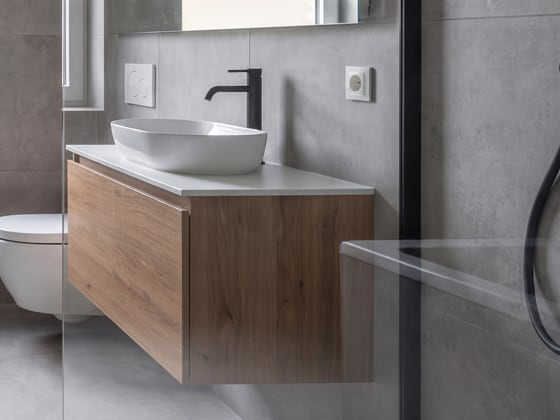
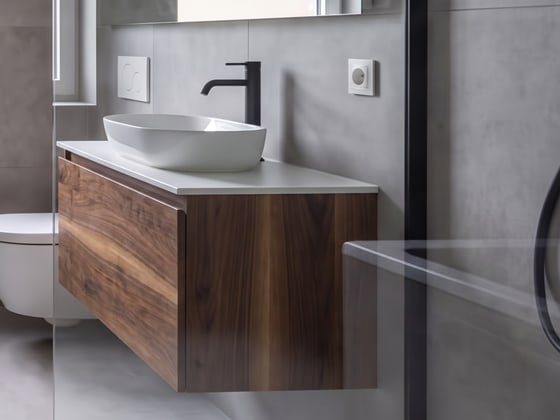
Badkamerpagina: dode navigatielink, het toilet, walnoot en "staat er niet tussen"
De navigatieknop "Diensten" wees naar een sectie die op deze pagina niet bestaat:
je klikte en er gebeurde niets. Op die plek staat hier de schetser, dus heet de
link nu "Ontwerp uw badkamer" en springt hij daarheen. De standaardlijst voor
landingspaginas heeft die dode link niet meer.

Het toilet ontbrak in "Soort werk", terwijl het mee vernieuwen van het toilet in
twee van de eigen reviews op deze pagina staat. Toegevoegd.

Walnoot was niet van eiken te onderscheiden: de eerste generatie veranderde het
front nauwelijks, de tweede maakte het donker maar vlak. Nu draagt het de nerf
waar walnoot aan te herkennen is, met donkere strepen en lichtere banden.

"Look" is uit de labels: in Vlaanderen leest dat als een woord over knoflook. De
keuzelijst toonde nog de onderliggende waarde en dus alsnog "betonlook"; die
toont nu het label. De waarde zelf blijft, want daar draaien de beeldsleutels en
de aanvraag op.

"Staat er niet tussen" was een doodlopend eind: je zei dat je iets anders wilde
en er was één tekstvak voor alle keuzes samen. Nu staan er drie manieren naast
elkaar: beschrijven, een link naar een voorbeeld plakken, of een foto meesturen.
Wat iemand in gedachten heeft zit even vaak in een beeld als in woorden.

De doorlooptijd staat nu bij de uitvoering in plaats van achteraan, en de vaste
prijs sluit de rij.

En de waarom-wij vertelde waar het geld en de tijd zitten, en eindigde met onze
interne afdelingsindeling. Dat is informatie over ons. Er staat nu wat de
[…]

Changed region(s): [[0.0, 0.0, 0.85, 1.0], [0.9107, 0.3405, 1.0, 0.8357], [0.2125, 0.9286, 0.2732, 0.9595]]

diff --git a/src/pages/abbouw/lp/replica/Schetser.tsx b/src/pages/abbouw/lp/replica/Schetser.tsx
@@ -211,12 +211,15 @@ export function kiesBeeld(
 }
 
 const ASSEN: As[] = [
+  /* De waarde blijft "Betonlook grijs" en zo: daar draaien de beeldsleutels en
+     de aanvraag op. Het label is wat de bezoeker leest, en daar is "look" uit:
+     in Vlaanderen leest dat als een woord over knoflook. */
   { sleutel: 'Tegels', vraag: 'Tegels', opties: [
-    { waarde: 'Betonlook grijs', label: 'Betonlook grijs' },
+    { waarde: 'Betonlook grijs', label: 'Beton grijs' },
     { waarde: 'Antraciet', label: 'Antraciet' },
-    { waarde: 'Marmerlook wit', label: 'Marmerlook wit' },
+    { waarde: 'Marmerlook wit', label: 'Marmer wit' },
     { waarde: 'Beige zandsteen', label: 'Beige zandsteen' },
-    { waarde: 'Houtlook', label: 'Houtlook' },
+    { waarde: 'Houtlook', label: 'Hout' },
     { waarde: 'Microcement', label: 'Microcement (naadloos)' },
   ] },
   { sleutel: 'Meubel', vraag: 'Wastafelmeubel', opties: [
@@ -263,6 +266,9 @@ export default function Schetser() {
   const [wc, setWc] = useState<boolean | null>(null);
   const [keuzes, setKeuzes] = useState<Record<string, string>>({});
   const [toelichting, setToelichting] = useState('');
+  /* Wie 'staat er niet tussen' kiest heeft vaak een voorbeeld in gedachten dat
+     ergens op internet staat. Zonder dit veld kon hij dat nergens kwijt. */
+  const [voorbeeldLink, setVoorbeeldLink] = useState('');
   const [foto, setFoto] = useState<string | null>(null);
   const [bezig, setBezig] = useState(false);
   const [fout, setFout] = useState<string | null>(null);
@@ -298,7 +304,11 @@ export default function Schetser() {
     for (const as of ASSEN) {
       const v = keuzes[as.sleutel];
       if (!v) continue;
-      uit.push({ label: as.vraag, waarde: v === NIET_ERTUSSEN ? 'iets anders' : v, inBeeld: as.sleutel === 'Tegels' });
+      /* Het label tonen, niet de waarde. De waarde is de sleutel waarop de
+         beelden en de aanvraag draaien en bevat woorden als "betonlook"; wat de
+         bezoeker leest staat in het label. */
+      const optie = as.opties.find((o) => o.waarde === v);
+      uit.push({ label: as.vraag, waarde: v === NIET_ERTUSSEN ? 'iets anders' : (optie?.label ?? v), inBeeld: as.sleutel === 'Tegels' });
     }
     return uit;
   }, [gekozenRuimteNaam, wc, keuzes]);
@@ -343,6 +353,7 @@ export default function Schetser() {
       ...ASSEN.map((a) => keuzes[a.sleutel]
         && `${a.sleutel}: ${keuzes[a.sleutel] === NIET_ERTUSSEN ? 'iets anders' : keuzes[a.sleutel]}`),
       toelichting.trim() && `Eigen wens: ${toelichting.trim()}`,
+      voorbeeldLink.trim() && `Voorbeeld: ${voorbeeldLink.trim()}`,
       foto && 'Bezoeker heeft een foto van zijn badkamer meegestuurd.',
     ].filter(Boolean).join(' · ');
 
@@ -449,12 +460,28 @@ export default function Schetser() {
                 );
               })}
 
+              {/* Wie "staat er niet tussen" koos, moet kunnen zeggen wat hij dan
+                  wél wil. Beschrijven, een link naar een voorbeeld, of een foto:
+                  drie manieren, want wat iemand in gedachten heeft zit even vaak
+                  in een beeld als in woorden. */}
               {ietsAnders && (
-                <label className="pc-schets-lijst">
-                  <span>Wat had u in gedachten?</span>
-                  <textarea rows={3} value={toelichting} onChange={(e) => setToelichting(e.target.value)}
-                    placeholder="Beschrijf het gerust in uw eigen woorden." />
-                </label>
+                <div className="pc-schets-anders">
+                  <label className="pc-schets-lijst">
+                    <span>Wat had u in gedachten?</span>
+                    <textarea rows={3} value={toelichting} onChange={(e) => setToelichting(e.target.value)}
+                      placeholder="Beschrijf het gerust in uw eigen woorden." />
+                  </label>
+                  <label className="pc-schets-lijst">
+                    <span>Of een link naar een voorbeeld</span>
+                    <input type="url" inputMode="url" value={voorbeeldLink}
+                      onChange={(e) => setVoorbeeldLink(e.target.value)}
+                      placeholder="https://" />
+                  </label>
+                  <button type="button" className="pc-schets-anders__foto"
+                    onClick={() => galerij.current?.click()}>
+                    {foto ? 'Andere foto kiezen' : 'Of stuur een foto mee'}
+                  </button>
+                </div>
               )}
             </>
           )}

diff --git a/src/pages/abbouw/lp/replica/inhoud.ts b/src/pages/abbouw/lp/replica/inhoud.ts
@@ -343,6 +343,20 @@ export const BADKAMER: PaginaInhoud = {
   dienst: 'badkamerrenovatie',
   divisie: 'ab_bad__wellness',
   bronPrefix: 'lp:badkamerrenovatie',
+
+  /*
+   * Eigen navigatie. De standaardlijst had een link naar de dienstensectie en
+   * die staat niet op deze pagina; daar klikte je op iets wat je nergens
+   * bracht. Op die plek staat hier de schetser, dus wijst de link daarheen en
+   * heet hij ernaar.
+   */
+  nav: [
+    { label: 'Home', href: '#top' },
+    { label: 'Over ons', href: '#over' },
+    { label: 'Ontwerp uw badkamer', href: '#schetser' },
+    { label: 'Aanpak', href: '#werkwijze' },
+    { label: 'Contact', href: '#contact' },
+  ],
   schetser: true,
   /* De dienstkaarten staan hier niet: de schetser neemt die plek in. */
   toonDiensten: false,
@@ -368,8 +382,8 @@ export const BADKAMER: PaginaInhoud = {
   },
   over: {
     kop: ['Eén vaste ploeg voor uw', 'hele badkamer'],
-    tekst: 'Het meeste geld en de meeste tijd zitten achter de muur: leidingen verleggen, lagen laten drogen voordat er getegeld kan worden. Daarom meten wij eerst ter plaatse op en zetten we de prijs per onderdeel op papier, voordat er iets uitgebroken wordt.',
-    slot: 'De badkamer valt onder AB Bad & Wellness; loopt het werk verder dan die ene kamer, dan schuiven de collega’s van interieur of dak mee aan.',
+    tekst: 'Een badkamer is de lastigste kamer van het huis om te verbouwen. Sanitair, elektriciteit, waterdichting en tegelwerk moeten op elkaar aansluiten, en de verkeerde volgorde kost tijd die u niet terugkrijgt. Bij ons zit dat werk in één ploeg, met één aanspreekpunt van het uitbreken tot de laatste voeg.',
+    slot: 'U kiest de tegels, het sanitair en de afwerking. De volgorde, de droogtijden en de aansluitingen regelen wij.',
     foto: bkOver,
     alt: 'Badkamer met dubbele lavabo op eiken meubel, bad en inloopdouche, door AB Bouw Groep',
   },
@@ -445,11 +459,11 @@ export const BADKAMER: PaginaInhoud = {
       { badge: ['5', 'werkdagen'], titel: 'Plaatsbezoek binnen vijf werkdagen',
         tekst: 'Opmeten, de afvoer bekijken, knelpunten benoemen.', knop: 'Gratis offerte',
         href: '#contact', foto: bkAanbod2, alt: 'Badkamer onder een schuin dak met hangtoilet en meubel' },
-      { badge: ['Vaste', 'prijs'], titel: 'Vaste prijs na het plaatsbezoek',
-        tekst: 'Wat op de offerte staat, betaalt u.', knop: 'Gratis offerte',
-        href: '#contact', foto: bkAanbod3, alt: 'Badkamer met dubbele lavabo, bad en inloopdouche' },
       { badge: ['2-3', 'weken'], titel: 'Twee tot drie weken werk',
         tekst: 'Van uitbreken tot de laatste voeg.', knop: 'Gratis offerte',
+        href: '#contact', foto: bkAanbod3, alt: 'Badkamer met dubbele lavabo, bad en inloopdouche' },
+      { badge: ['Vaste', 'prijs'], titel: 'Vaste prijs na het plaatsbezoek',
+        tekst: 'Wat op de offerte staat, betaalt u.', knop: 'Gratis offerte',
         href: '#contact', foto: bkWerf, alt: 'Badkamer halverwege de renovatie: wanden deels betegeld, leidingen aangesloten' },
     ],
   },

diff --git a/src/pages/abbouw/lp/LpDienst.tsx b/src/pages/abbouw/lp/LpDienst.tsx
@@ -257,7 +257,7 @@ export const DIENSTEN: Record<string, Dienst> = {
     gallery: [imgBkG1, imgBkG2, imgBkG3],
     reviews: [{ text: '"Oude badkamer was aan vervanging toe. Bad eruit, inloopdouche erin. Drie weken werk, netjes afgewerkt."', name: 'Greet Janssens', role: 'Bad vervangen door douche · Mechelen' }, { text: '"Bad vervangen door een inloopdouche en het toilet mee verplaatst. Alles strak aangesloten. Heel tevreden."', name: 'Peter Maes', role: 'Volledige renovatie · Willebroek' }, { text: '"Op tijd begonnen en op tijd klaar. De douche loopt goed weg, dat was bij de vorige niet zo."', name: 'Linda Verbeeck', role: 'Badkamer op zolder · Bornem' }],
     faq: [['Wat kost een badkamerrenovatie?', 'Dat hangt af van de oppervlakte, het sanitair, de tegels en de staat van de leidingen. Een complete badkamer ligt doorgaans tussen 9.000 en 18.000 euro. U krijgt een vaste prijs na het gratis plaatsbezoek; wat op de offerte staat, betaalt u.'], ['Hoe lang duurt een badkamerrenovatie?', 'Een volledige badkamer is doorgaans in twee tot drie weken klaar, afhankelijk van de omvang en de droogtijden. Bij het plaatsbezoek geven we u een realistische planning.'], ['Doen jullie alles zelf of met onderaannemers?', 'Alles met onze eigen vaste ploeg. Sanitair, tegelwerk en leidingen zitten in één hand, met één aanspreekpunt van begin tot oplevering.'], ['Kan ik mijn bad laten vervangen door een inloopdouche?', 'Ja, dat is een van de meest gevraagde renovaties. Wij halen het bad eruit, passen de leidingen en de afvoer aan en plaatsen een waterdichte inloopdouche.'], ['Betaal ik 6% of 21% btw?', 'Is uw woning ouder dan 10 jaar, dan valt de renovatie inclusief plaatsing meestal onder 6% btw. Wij bekijken of u in aanmerking komt en regelen het papierwerk.'], ['Kan ik mijn badkamer nog gebruiken tijdens de werken?', 'Bij een volledige renovatie ligt de badkamer een aantal dagen stil, van het uitbreken tot het sanitair terug aangesloten is. Heeft u maar één badkamer, zeg dat op het plaatsbezoek: we plannen het toilet en een werkende douche dan als eerste opnieuw aan, zodat u zo weinig mogelijk dagen zonder zit.'], ['Werken jullie in mijn regio?', 'Wij werken in Mechelen, Antwerpen, Lier, Willebroek, Bornem, Sint-Niklaas en heel Vlaanderen. Bij het gratis plaatsbezoek bevestigen we meteen de planning.']],
-    typeWerkOpties: ['Volledige badkamer renoveren', 'Inloopdouche plaatsen', 'Bad vervangen door douche', 'Iets anders / advies nodig'],
+    typeWerkOpties: ['Volledige badkamer renoveren', 'Inloopdouche plaatsen', 'Bad vervangen door douche', 'Toilet renoveren of verplaatsen', 'Iets anders / advies nodig'],
     finalSub: 'Liever eerst iemand aan de lijn? Bel gerust.',
     metaTitle: 'Badkamerrenovatie door één vaste ploeg | AB Bouw Groep',
     metaDesc: 'Sanitair, tegels, douche en leidingen door dezelfde ploeg. Een volledige badkamer staat er in twee tot drie weken. Bereken uw badkamer in 60 seconden.',

diff --git a/src/pages/abbouw/lp/replica/stijl.ts b/src/pages/abbouw/lp/replica/stijl.ts
@@ -476,6 +476,17 @@ export const REPLICA_CSS = `
 
 .pc-boog { position: absolute; color: var(--pc-accent); pointer-events: none; }
 
+/* Het blok onder "staat er niet tussen". Het staat ingesprongen met een lijn
+   ernaast, zodat te zien is dat het bij de keuze erboven hoort en niet bij de
+   volgende vraag. */
+.pc-schets-anders { margin-top: 14px; padding-left: 14px;
+  border-left: 2px solid var(--pc-accent); display: grid; gap: 12px; }
+.pc-schets-anders__foto { justify-self: start; padding: 9px 14px; border-radius: 8px;
+  border: 1.5px solid #e6e4e0; background: #fff; cursor: pointer;
+  font-size: 14px; font-weight: 600; color: var(--pc-ink);
+  transition: border-color .16s ease; }
+.pc-schets-anders__foto:hover { border-color: #cfccc6; }
+
 /* Stalen: een rij beelden per uitvoering. Een keuzelijst met "Walnoot" erin
    laat niet zien wat walnoot is; een uitsnede uit dezelfde ruimte wel. */
 .pc-schets-stalen { margin-top: 18px; }

diff --git a/src/pages/abbouw/lp/replica/LpReplica.tsx b/src/pages/abbouw/lp/replica/LpReplica.tsx
@@ -102,10 +102,16 @@ const beeld = (naam: string) => {
 
 
 
-const NAV = [
+/*
+ * De navigatie van een landingspagina wijst naar secties op die pagina zelf.
+ *
+ * "Diensten" stond hier maar de badkamerpagina heeft die sectie niet: daar
+ * klikte je op een link die je nergens bracht. Een pagina kan deze lijst
+ * overschrijven via inhoud.nav; waar dat niet gebeurt telt deze.
+ */
+const NAV: { label: string; href: string; chevron?: boolean }[] = [
   { label: 'Home', href: '#top' },
   { label: 'Over ons', href: '#over' },
-  { label: 'Diensten', href: '#diensten', chevron: true },
   { label: 'Aanpak', href: '#werkwijze' },
   { label: 'Contact', href: '#contact' },
 ];
